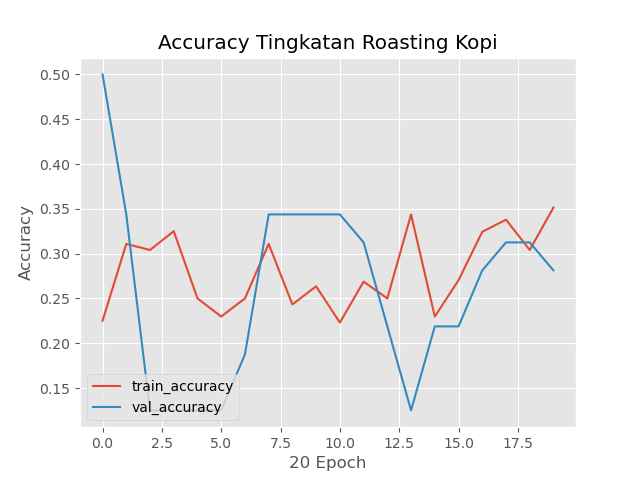
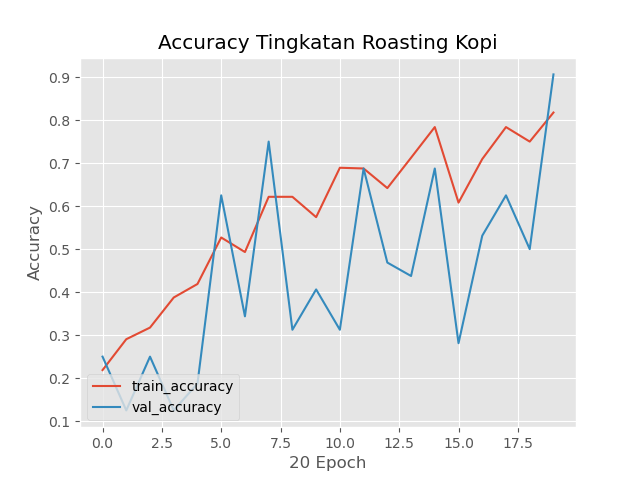
MiniVggNet Fixed

diff --git a/Mini VggNet/train_miniVgg.py b/Mini VggNet/train_miniVgg.py
@@ -99,8 +99,8 @@ aug = ImageDataGenerator(rotation_range = 30, width_shift_range=0.1,
 print("[Info] Compiling Model.....")
 model = miniVgg.build(width=32, height=32, depth=3, classes=4)
 # opt = Adam(lr=INIT_LR, decay=INIT_LR / EPOCHS)
-opt = SGD(lr=INIT_LR, momentum=0.9, decay=INIT_LR / EPOCHS)
-# opt = Nadam(lr=INIT_LR, decay=INIT_LR / EPOCHS)
+# opt = SGD(lr=INIT_LR, momentum=0.9, decay=INIT_LR / EPOCHS)
+opt = Nadam(lr=INIT_LR, decay=INIT_LR / EPOCHS)
 # model.compile(loss="binary_crossentropy", optimizer=opt, metrics=["accuracy"])
 model.compile(loss="categorical_crossentropy", optimizer=opt, metrics=["accuracy"])
 
@@ -113,8 +113,8 @@ H = model.fit_generator(aug.flow(trainX, trainY, batch_size=BS),
 #save model
 print("[Info] menyimpan model")
 # model.save('train_miniVgg.model.h5')
-model.save('train_miniVgg(SGD).model.h5')
-# model.save('train_miniVgg(NADAM).model.h5')
+# model.save('train_miniVgg(SGD).model.h5')
+model.save('train_miniVgg(NADAM).model.h5')
 
 #simpan model ke disk
 # model.save(args["model"])

diff --git a/Mini VggNet/MiniVggNet.py b/Mini VggNet/MiniVggNet.py
@@ -12,7 +12,6 @@ class miniVgg:
         inputShape = (height, width, depth)
 
         #1
-        # model.add(Conv2D(20, (5,5), padding="same", input_shape = inputShape))
         model.add(Conv2D(32, (3,3), padding = "same", input_shape = inputShape))
         model.add(Activation("relu"))
 
@@ -35,6 +34,8 @@ class miniVgg:
         #5 FC
         model.add(Flatten())
         model.add(Dense(512))
+        model.add(Activation("relu"))
+        model.add(Dropout(0.5))
 
         #6
         model.add(Dense(classes))
